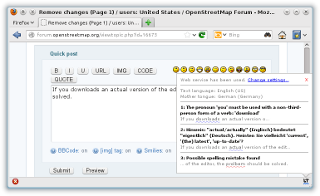
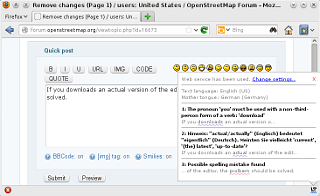
add shadows to the screenshots via CSS

Changed region(s): [[0.0, 0.0, 1.0, 1.0], [0.125, 0.2449, 0.25, 0.3061]]

diff --git a/www/css/style.css b/www/css/style.css
@@ -16,12 +16,14 @@ body #screenshots .imgbox {
   font-size: 11px;
   text-align: center;
   float: left;
-  margin: 0px 10px 0px 7px;
+  margin: 0px 15px 8px 15px;
 }
 body #screenshots .imgbox > a:first-child > img {
   width: 320px;
   height: auto;
   border: 0px;
+  margin-bottom: 7px;
+  box-shadow: 5px 5px 10px grey;
 }
 body #screenshots .imgbox > a:last-of-type {
   line-height: 21px;

diff --git a/www/css/style_v2.less b/www/css/style_v2.less
@@ -20,13 +20,15 @@ body {
       font-size: 11px;
       text-align: center;
       float: left;
-      margin: 0px 10px 0px 7px;
+      margin: 0px 15px 8px 15px;
     }
 
     .imgbox > a:first-child > img {
       width: 320px;
       height: auto;
       border: 0px;
+      margin-bottom: 7px;
+      box-shadow: 5px 5px 10px grey;
     }
 
     .imgbox > a:last-of-type {
